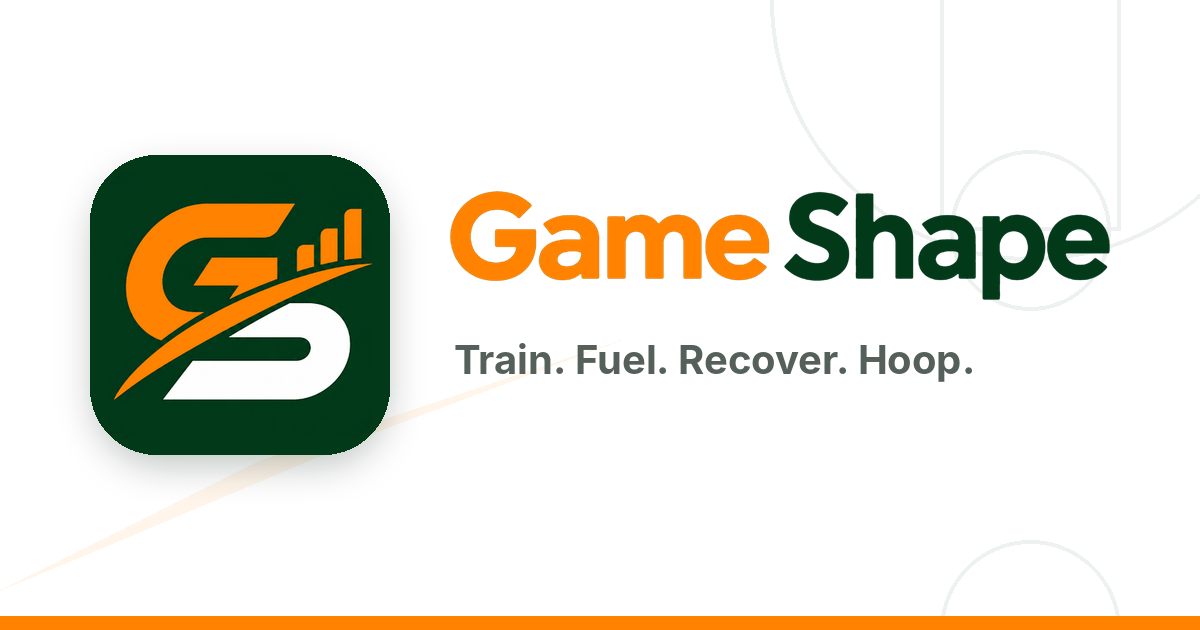
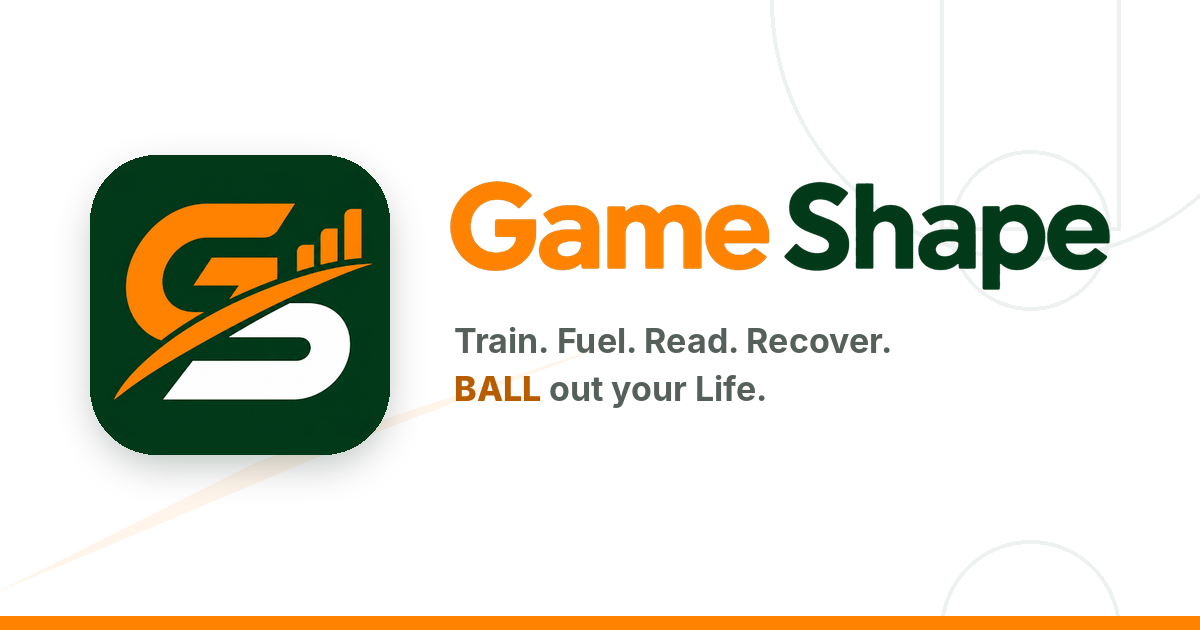
Add files via upload

Changed region(s): [[0.37, 0.2714, 0.925, 0.4825], [0.37, 0.5127, 0.8017, 0.6635]]

diff --git a/index.html b/index.html
@@ -26,20 +26,20 @@
 <link rel="apple-touch-icon" sizes="180x180" href="icon-180.png">
 <link rel="apple-touch-icon" sizes="167x167" href="icon-167.png">
 <link rel="apple-touch-icon" sizes="152x152" href="icon-152.png">
-<meta name="description" content="Train. Fuel. Recover. Hoop. Your daily plan for workouts, food, sleep, and recovery.">
+<meta name="description" content="Train. Fuel. Read. Recover. BALL out your Life. Your daily plan for workouts, food, sleep, and recovery.">
 <meta property="og:type" content="website">
 <meta property="og:site_name" content="Game Shape">
 <meta property="og:title" content="Game Shape">
-<meta property="og:description" content="Train. Fuel. Recover. Hoop. Your daily plan for workouts, food, sleep, and recovery.">
+<meta property="og:description" content="Train. Fuel. Read. Recover. BALL out your Life. Your daily plan for workouts, food, sleep, and recovery.">
 <meta property="og:url" content="https://game-shape-os1.netlify.app/">
-<meta property="og:image" content="https://game-shape-os1.netlify.app/og-image.png?v=2">
+<meta property="og:image" content="https://game-shape-os1.netlify.app/og-image.png?v=3">
 <meta property="og:image:width" content="1200">
 <meta property="og:image:height" content="630">
 <meta property="og:image:alt" content="Game Shape logo">
 <meta name="twitter:card" content="summary_large_image">
 <meta name="twitter:title" content="Game Shape">
-<meta name="twitter:description" content="Train. Fuel. Recover. Hoop. Your daily plan for workouts, food, sleep, and recovery.">
-<meta name="twitter:image" content="https://game-shape-os1.netlify.app/og-image.png?v=2">
+<meta name="twitter:description" content="Train. Fuel. Read. Recover. BALL out your Life. Your daily plan for workouts, food, sleep, and recovery.">
+<meta name="twitter:image" content="https://game-shape-os1.netlify.app/og-image.png?v=3">
 <style>
 /* ===================== BRAND (shared tokens for every Game Shape app + intake) ===================== */
 :root{
@@ -208,7 +208,9 @@ table.t td{padding:9px 4px;border-bottom:1px solid var(--line)}
 #updateBar button{background:var(--orange);color:var(--ink);font-weight:800;border-radius:11px;min-height:40px;padding:0 14px}
 .wm-bg{position:fixed;right:-80px;bottom:calc(var(--sb) + 64px);width:380px;max-width:90vw;opacity:.07;z-index:0;pointer-events:none;user-select:none}
 .signoff{display:flex;align-items:center;justify-content:center;gap:8px;margin:22px 0 6px;color:var(--dim);font-size:12px;font-weight:700;letter-spacing:.3px;position:relative;z-index:1}
-.signoff img{width:22px;height:22px}
+.signoff img{width:22px;height:22px;flex:none}
+.signoff{flex-wrap:wrap;text-align:center}
+.signoff .ball{color:var(--orange-ink);font-weight:900;letter-spacing:.5px}
 .card h2.brand{display:flex;align-items:center;gap:8px}
 .card h2.brand:before{content:"";width:20px;height:20px;flex:none;background:url(gs-mark.png) center/contain no-repeat}
 .wo-mark{width:30px;height:30px}
@@ -281,6 +283,20 @@ a.btn{text-decoration:none}
 .lebtn[disabled]{opacity:.3}
 ol.aff{margin:10px 0 0;padding-left:20px}
 ol.aff li{margin:8px 0;font-size:16px;font-weight:600}
+/* Tab bar flair: breathing green + orange gradient */
+@keyframes gsFlow{0%{background-position:0% 50%}50%{background-position:100% 50%}100%{background-position:0% 50%}}
+@keyframes gsBreathe{0%,100%{transform:scale(1)}50%{transform:scale(1.08)}}
+@keyframes gsGlow{0%,100%{opacity:.75;transform:scale(.96)}50%{opacity:1;transform:scale(1)}}
+.tabbar{border-top:0}
+.tabbar:before{content:"";position:absolute;left:0;right:0;top:0;height:3px;background:linear-gradient(90deg,#013919,#ff8200,#0e5a2e,#ff8200,#013919);background-size:300% 100%;animation:gsFlow 6s ease-in-out infinite}
+.tabbar button{isolation:isolate}
+.tabbar button svg{stroke:url(#gsTabGrad);opacity:.8;animation:gsBreathe 3.2s ease-in-out infinite;transform-origin:center}
+.tabbar button:nth-child(3) svg{animation-delay:.25s}.tabbar button:nth-child(4) svg{animation-delay:.5s}.tabbar button:nth-child(5) svg{animation-delay:.75s}.tabbar button:nth-child(6) svg{animation-delay:1s}.tabbar button:nth-child(7) svg{animation-delay:1.25s}
+.tabbar .tl{background:linear-gradient(90deg,#0f7a3f,#ff8200,#0f7a3f);background-size:200% 100%;-webkit-background-clip:text;background-clip:text;color:transparent;animation:gsFlow 4s ease-in-out infinite;opacity:.8;font-weight:800}
+.tabbar button.on svg{opacity:1;stroke-width:2.5}
+.tabbar button.on .tl{opacity:1;font-weight:900}
+.tabbar button.on:before{content:"";position:absolute;inset:2px 8px 10px;border-radius:16px;z-index:-1;background:linear-gradient(120deg,rgba(1,57,25,.16),rgba(255,130,0,.26),rgba(1,57,25,.16));background-size:200% 200%;animation:gsFlow 4s ease-in-out infinite,gsGlow 3.2s ease-in-out infinite;box-shadow:0 0 16px rgba(255,130,0,.25)}
+.tabbar button.on:after{background:linear-gradient(90deg,#ff8200,#0e5a2e);width:18px;height:4px;border-radius:2px}
 @media (prefers-reduced-motion:reduce){*{animation:none!important;transition:none!important}}
 </style>
 </head>
@@ -294,12 +310,13 @@ ol.aff li{margin:8px 0;font-size:16px;font-weight:600}
   </header>
   <main id="view"></main>
   <nav class="tabbar" id="tabbar">
-    <button data-tab="today"><svg viewBox="0 0 24 24" fill="none" stroke="currentColor" stroke-width="2" stroke-linecap="round" stroke-linejoin="round"><path d="M3 11l9-7 9 7v9a1 1 0 0 1-1 1h-5v-6h-6v6H4a1 1 0 0 1-1-1z"/></svg>Today</button>
-    <button data-tab="train"><svg viewBox="0 0 24 24" fill="none" stroke="currentColor" stroke-width="2" stroke-linecap="round"><path d="M6 7v10M3 9v6M18 7v10M21 9v6M6 12h12"/></svg>Train</button>
-    <button data-tab="fuel"><svg viewBox="0 0 24 24" fill="none" stroke="currentColor" stroke-width="2" stroke-linecap="round" stroke-linejoin="round"><path d="M12 21c4-3 7-6.5 7-11a7 7 0 0 0-14 0c0 4.5 3 8 7 11z"/><path d="M12 7v6M9 10h6"/></svg>Fuel</button>
-    <button data-tab="reads"><svg viewBox="0 0 24 24" fill="none" stroke="currentColor" stroke-width="2" stroke-linecap="round" stroke-linejoin="round"><path d="M12 6c-2-1.5-5-2-8-1.5v13c3-.5 6 0 8 1.5 2-1.5 5-2 8-1.5v-13c-3-.5-6 0-8 1.5z"/><path d="M12 6v13"/></svg>Reads</button>
-    <button data-tab="recover"><svg viewBox="0 0 24 24" fill="none" stroke="currentColor" stroke-width="2" stroke-linecap="round" stroke-linejoin="round"><path d="M20 14.5A8 8 0 0 1 9.5 4a8 8 0 1 0 10.5 10.5z"/></svg>Recover</button>
-    <button data-tab="progress"><svg viewBox="0 0 24 24" fill="none" stroke="currentColor" stroke-width="2" stroke-linecap="round" stroke-linejoin="round"><path d="M3 20h18M6 16l4-5 3 3 6-8"/></svg>Progress</button>
+    <svg width="0" height="0" style="position:absolute" aria-hidden="true"><defs><linearGradient id="gsTabGrad" gradientUnits="userSpaceOnUse" x1="0" y1="0" x2="24" y2="24"><stop offset="0%" stop-color="#0f7a3f"><animate attributeName="stop-color" values="#0f7a3f;#ff8200;#0f7a3f" dur="4s" repeatCount="indefinite"/></stop><stop offset="100%" stop-color="#ff8200"><animate attributeName="stop-color" values="#ff8200;#0f7a3f;#ff8200" dur="4s" repeatCount="indefinite"/></stop></linearGradient></defs></svg>
+    <button data-tab="today"><svg viewBox="0 0 24 24" fill="none" stroke="currentColor" stroke-width="2" stroke-linecap="round" stroke-linejoin="round"><path d="M3 11l9-7 9 7v9a1 1 0 0 1-1 1h-5v-6h-6v6H4a1 1 0 0 1-1-1z"/></svg><span class="tl">Today</span></button>
+    <button data-tab="train"><svg viewBox="0 0 24 24" fill="none" stroke="currentColor" stroke-width="2" stroke-linecap="round"><path d="M6 7v10M3 9v6M18 7v10M21 9v6M6 12h12"/></svg><span class="tl">Train</span></button>
+    <button data-tab="fuel"><svg viewBox="0 0 24 24" fill="none" stroke="currentColor" stroke-width="2" stroke-linecap="round" stroke-linejoin="round"><path d="M12 21c4-3 7-6.5 7-11a7 7 0 0 0-14 0c0 4.5 3 8 7 11z"/><path d="M12 7v6M9 10h6"/></svg><span class="tl">Fuel</span></button>
+    <button data-tab="reads"><svg viewBox="0 0 24 24" fill="none" stroke="currentColor" stroke-width="2" stroke-linecap="round" stroke-linejoin="round"><path d="M12 6c-2-1.5-5-2-8-1.5v13c3-.5 6 0 8 1.5 2-1.5 5-2 8-1.5v-13c-3-.5-6 0-8 1.5z"/><path d="M12 6v13"/></svg><span class="tl">Reads</span></button>
+    <button data-tab="recover"><svg viewBox="0 0 24 24" fill="none" stroke="currentColor" stroke-width="2" stroke-linecap="round" stroke-linejoin="round"><path d="M20 14.5A8 8 0 0 1 9.5 4a8 8 0 1 0 10.5 10.5z"/></svg><span class="tl">Recover</span></button>
+    <button data-tab="progress"><svg viewBox="0 0 24 24" fill="none" stroke="currentColor" stroke-width="2" stroke-linecap="round" stroke-linejoin="round"><path d="M3 20h18M6 16l4-5 3 3 6-8"/></svg><span class="tl">Progress</span></button>
   </nav>
 </div>
 <div id="sheet" class="sheet hidden"><div class="sheet-bg" data-act="closeSheet"></div><div class="sheet-panel"><div class="grab"></div><div id="sheetBody"></div></div></div>
@@ -367,8 +384,10 @@ const IDENTITY = [
 
 
 /* ---------------------------- BRAND ART + ICONS (shared across every person's app) ---------------------------- */
-const APP_VERSION = "2.3.0";
+const APP_VERSION = "2.3.2";
 const CHANGELOG = {
+  "2.3.2": ["Bottom tabs now glow with a breathing green and orange gradient"],
+  "2.3.1": ["New sign-off: Train. Fuel. Read. Recover. BALL out your Life."],
   "2.3.0": ["Edit, add, remove, and reorder your affirmations right on Recover", "New Customize screen: daily times, checklist items, your own habits, wind-down steps, quotes, hot tub on or off, and targets", "Add or remove supplements"],
   "2.2.1": ["Every exercise and stretch now has a Watch how to do it link"],
   "2.2.0": ["Import your schedule from a file, a calendar link, or a photo", "Synced calendars update your plan when games move", "Add every game to your phone calendar in one tap", "Works for any sport: races get a taper and an easy day after"],
@@ -1011,7 +1030,7 @@ function render() {
   const nd = new Date(); $("hdrDate").textContent = nd.toLocaleDateString("en-US", { weekday: "short", month: "short", day: "numeric", year: "numeric" });
   const ta = TAB_ART[UI.tab];
   $("view").innerHTML = `<div class="art" style="${ta[1]}">${ART[ta[0]]}</div>` + ({ today: renderToday, train: renderTrain, fuel: renderFuel, reads: renderReads, recover: renderRecover, progress: renderProgress })[UI.tab]();
-  $("view").insertAdjacentHTML("beforeend", `<div class="signoff"><img src="gs-mark.png" alt="">Game Shape \u2022 Train. Fuel. Recover. Hoop.</div>`);
+  $("view").insertAdjacentHTML("beforeend", `<div class="signoff"><img src="gs-mark.png" alt=""><span>Train. Fuel. Read. Recover. <b class="ball">BALL</b> out your Life.</span></div>`);
   document.querySelectorAll("#tabbar button").forEach(b => b.classList.toggle("on", b.dataset.tab === UI.tab));
 }
 function rerenderAll() { render(); if (UI.wo) renderWO(); if (UI.sheet) renderSheet(); }

diff --git a/intake.html b/intake.html
@@ -108,7 +108,9 @@ details textarea{min-height:200px;font-family:ui-monospace,Menlo,monospace;font-
 .toast{position:fixed;left:50%;top:calc(var(--st) + 16px);transform:translateX(-50%);background:var(--green);color:#fff;padding:12px 18px;border-radius:14px;font-weight:700;display:none;z-index:50}
 .wm-bg{position:fixed;right:-80px;bottom:calc(var(--sb) + 64px);width:380px;max-width:90vw;opacity:.07;z-index:0;pointer-events:none;user-select:none}
 .signoff{display:flex;align-items:center;justify-content:center;gap:8px;margin:22px 0 6px;color:#9aa39e;font-size:12px;font-weight:700;letter-spacing:.3px;position:relative;z-index:1}
-.signoff img{width:22px;height:22px}
+.signoff img{width:22px;height:22px;flex:none}
+.signoff{flex-wrap:wrap;text-align:center}
+.signoff .ball{color:var(--orange-ink);font-weight:900;letter-spacing:.5px}
 .step .eyebrow{display:flex;align-items:center;gap:7px}
 .step .eyebrow:before{content:"";width:16px;height:16px;background:url(gs-mark.png) center/contain no-repeat}
 @media (prefers-reduced-motion:reduce){*{animation:none!important;transition:none!important}}
@@ -243,7 +245,7 @@ details textarea{min-height:200px;font-family:ui-monospace,Menlo,monospace;font-
   <button class="btn sec" id="edit" type="button">Go back and edit</button>
   <details><summary>Show my answers</summary><textarea id="json" readonly></textarea></details>
 </section>
-<div class="signoff"><img src="gs-mark.png" alt="">Game Shape • Train. Fuel. Recover. Hoop.</div>
+<div class="signoff"><img src="gs-mark.png" alt=""><span>Train. Fuel. Read. Recover. <b class="ball">BALL</b> out your Life.</span></div>
 </main>
 <div class="bar"><button class="back" id="back" type="button">Back</button><button class="next" id="next" type="button">Let's go</button></div>
 <div class="toast" id="toast"></div>

diff --git a/sw.js b/sw.js
@@ -1,6 +1,6 @@
 /* Game Shape service worker.
    RELEASE: bump VERSION to match APP_VERSION in index.html and version.json. */
-const VERSION = "gs-2.3.0";
+const VERSION = "gs-2.3.2";
 const FILES = ["./", "./index.html", "./intake.html", "./manifest.json", "./wordmark-on-light.png", "./icon-180.png", "./icon-192.png", "./icon-512.png", "./favicon.ico", "./cpe-logo.png", "./gs-mark.png", "./books.json", "./schedule-lib.js"];
 self.addEventListener("install", e => { e.waitUntil(caches.open(VERSION).then(c => c.addAll(FILES)).catch(() => {}).then(() => self.skipWaiting())); });
 self.addEventListener("activate", e => { e.waitUntil(caches.keys().then(ks => Promise.all(ks.filter(k => k !== VERSION).map(k => caches.delete(k)))).then(() => self.clients.claim())); });
